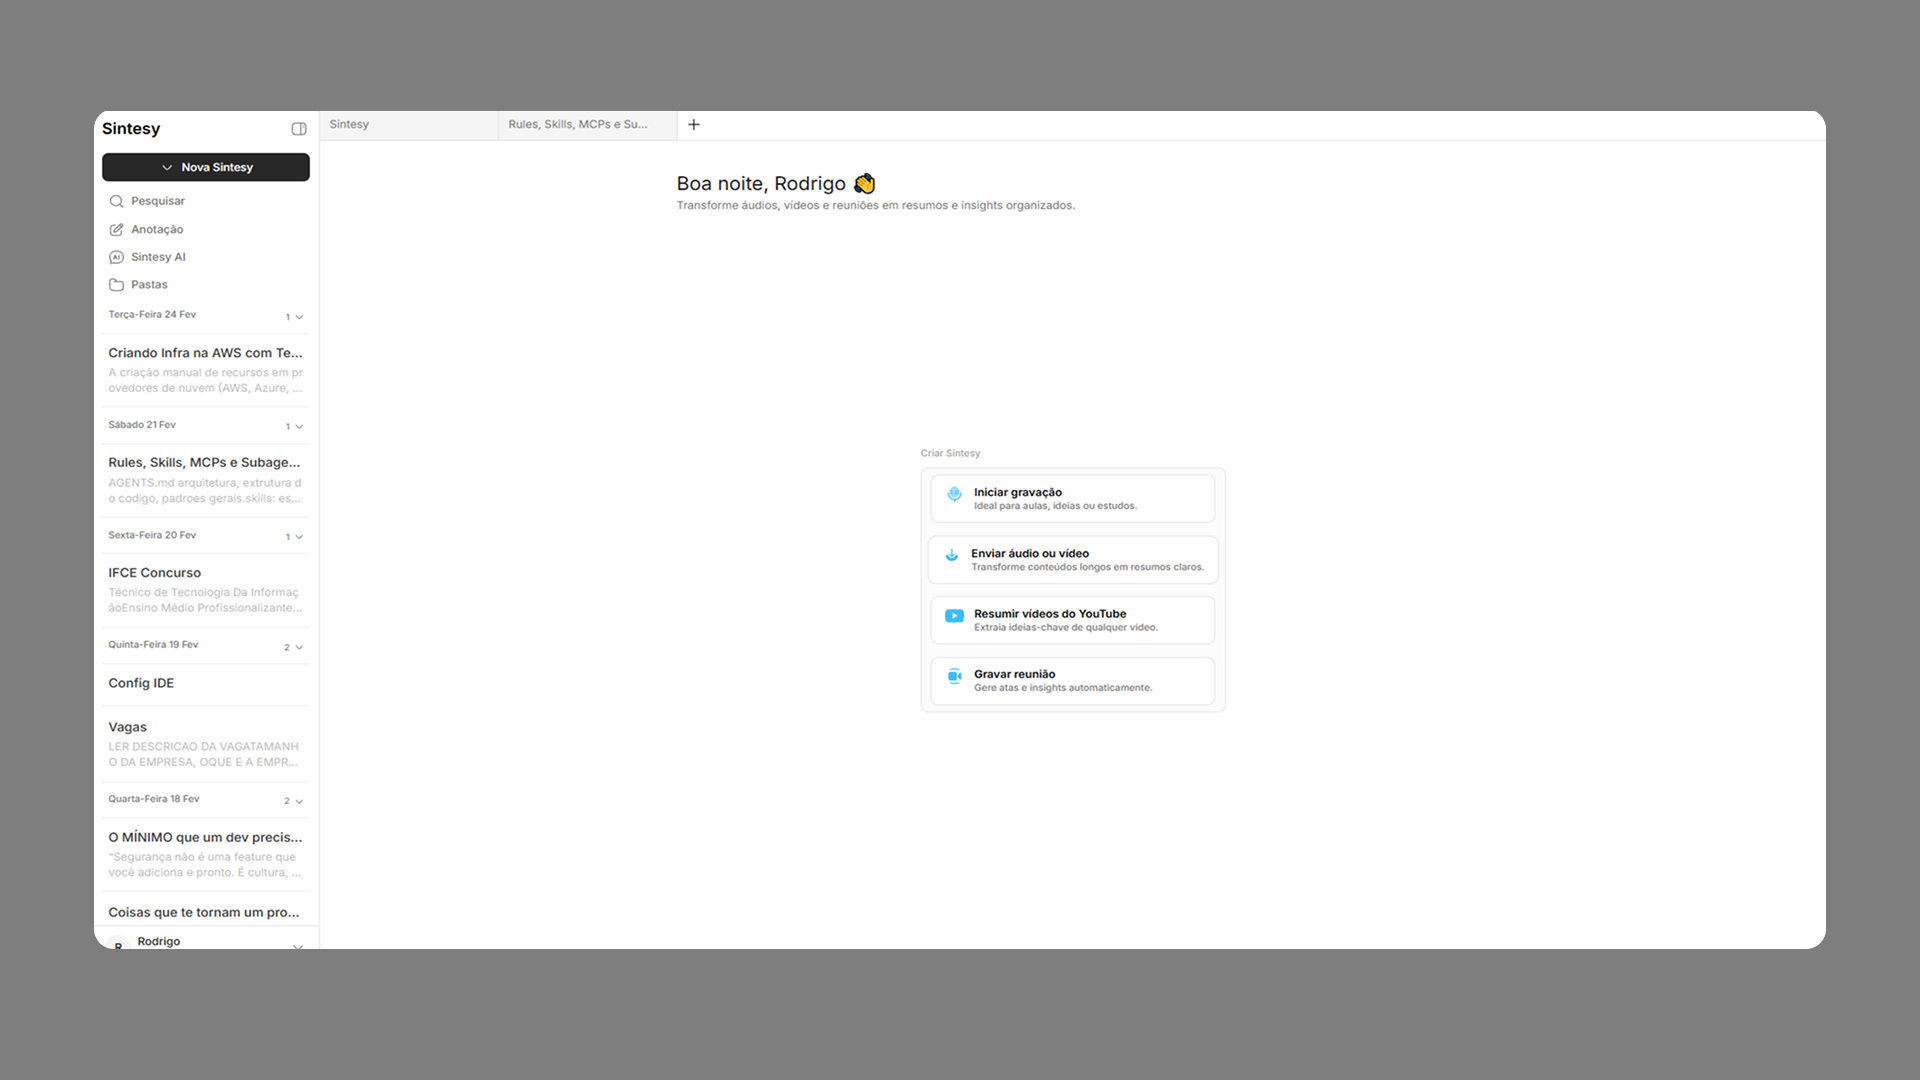
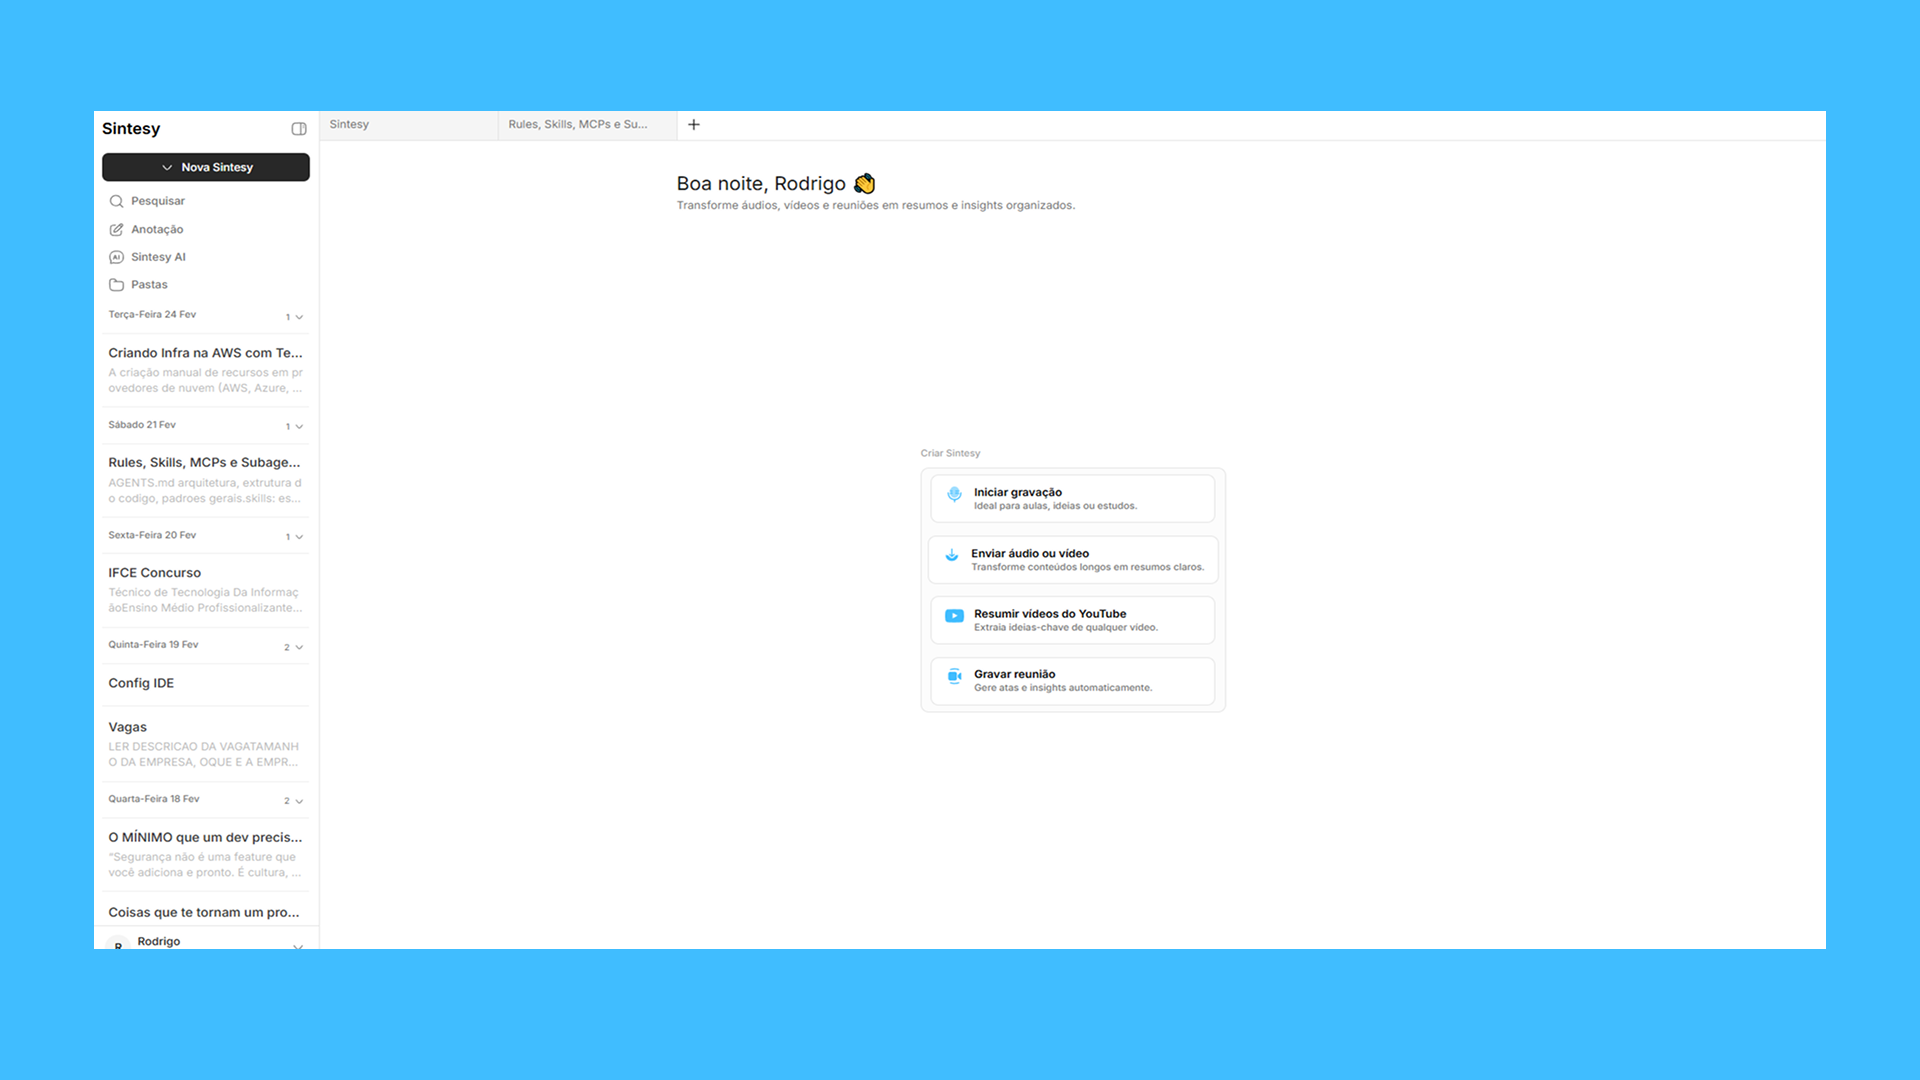
fix: projects

diff --git a/app/data/projects.ts b/app/data/projects.ts
@@ -79,31 +79,28 @@ const projectsLocalized: ProjectLocalized[] = [
     colorBadge: 'bg-purple-500/20 text-purple-500',
   },
   {
-    title: 'Pumkin',
+    title: 'NyxAI',
     description: {
       en: 'A chat platform integrated with multiple AI models, where users can switch between models, create new chats, organize conversations and compare responses.',
       'pt-BR':
         'Uma plataforma de chat integrada com múltiplos modelos de IA, onde usuários podem alternar entre modelos, criar novos chats, organizar conversas e comparar respostas.',
     },
-    image: '/pumkin.png',
-    LandingPage: 'https://pumkin.com.br/',
-    linkGithub: 'https://github.com/skrodrigo/pumkin',
+    image: '/nyxai.png',
+    LandingPage: 'https://nyxai.com.br/',
+    linkGithub: 'https://github.com/skrodrigo/nyxai',
     technologies: [
       'Next.js',
-      'TypeScript',
-      'Tailwind',
       'Shadcn',
-      'BetterAuth',
-      'Prisma',
       'AI-SDK',
-      'AI SDK ELEMENTS',
       'Stripe',
-      'GOOGLE SSO',
+      'Hono.js',
+      'Cloudflare',
+      'Drizzle',
       'NeonDB',
       'Zod',
       'React Hook Form',
     ],
-    colorBadge: 'bg-orange-500/5 text-orange-300',
+    colorBadge: 'bg-zinc-500/5 text-zinc-300',
   },
 ]
 
